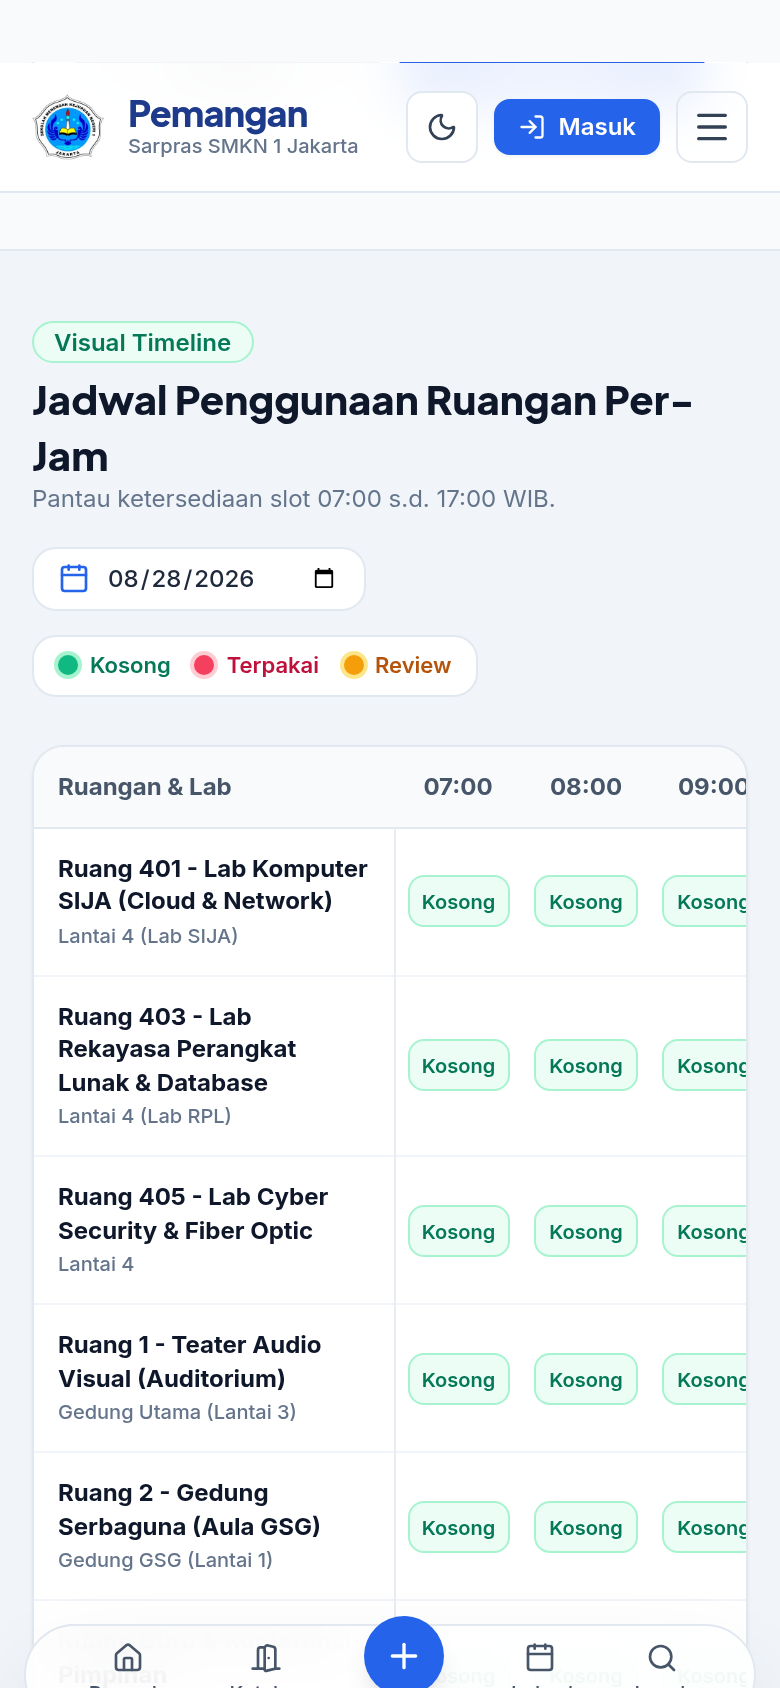
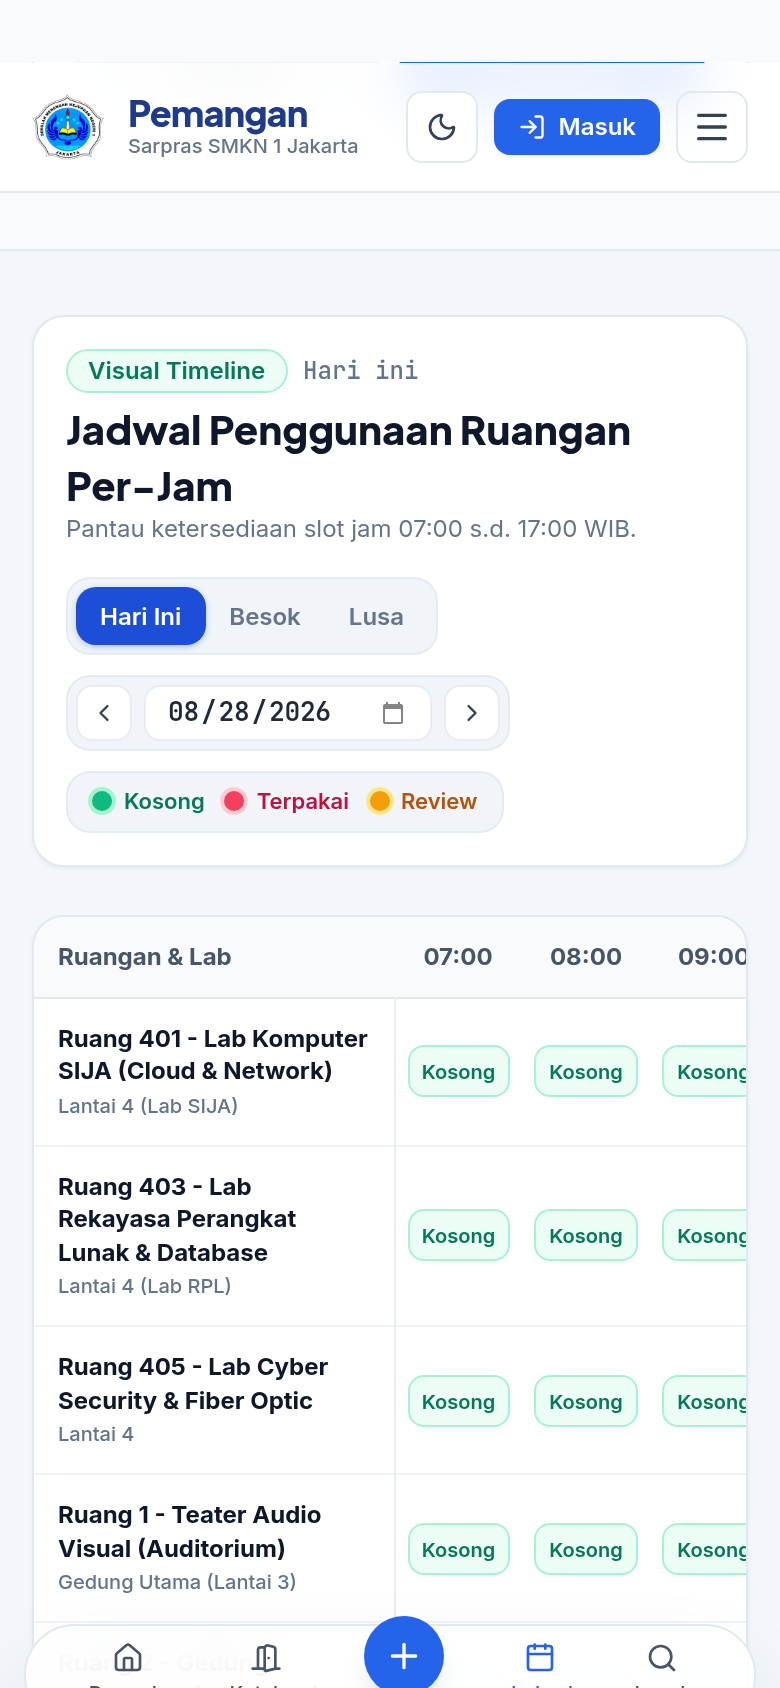
feat(ui-ux): enhance all date filter controls, quick preset chips, day steppers, and admin schedule filters

diff --git a/index.html b/index.html
@@ -339,23 +339,44 @@
             </section>
 
             <!-- Visual Timetable Section (Hourly Matrix) -->
-            <section id="timetable" class="scroll-mt-20 py-8 bg-slate-100 dark:bg-slate-900/50 border-y border-slate-200 dark:border-slate-800">
+            <section id="timetable" class="scroll-mt-20 py-8 bg-slate-100/80 dark:bg-slate-900/50 border-y border-slate-200 dark:border-slate-800">
                 <div class="max-w-7xl mx-auto px-4 sm:px-6 lg:px-8 space-y-6">
-                    <div class="flex flex-col sm:flex-row items-start sm:items-center justify-between gap-4">
+                    
+                    <!-- Timetable Header & Date Navigation Bar -->
+                    <div class="p-4 sm:p-5 rounded-2xl bg-white dark:bg-slate-900 border border-slate-200 dark:border-slate-800 shadow-sm flex flex-col lg:flex-row items-start lg:items-center justify-between gap-4">
                         <div>
-                            <span class="px-2.5 py-0.5 rounded-full text-xs font-semibold bg-emerald-50 dark:bg-emerald-950 text-emerald-700 dark:text-emerald-300 border border-emerald-200 dark:border-emerald-800">Visual Timeline</span>
+                            <div class="flex items-center gap-2">
+                                <span class="px-2.5 py-0.5 rounded-full text-xs font-semibold bg-emerald-50 dark:bg-emerald-950 text-emerald-700 dark:text-emerald-300 border border-emerald-200 dark:border-emerald-800">Visual Timeline</span>
+                                <span id="timetableDateBadge" class="text-xs font-mono font-medium text-slate-500">Hari ini</span>
+                            </div>
                             <h2 class="font-heading font-extrabold text-xl sm:text-2xl text-slate-900 dark:text-white mt-1">Jadwal Penggunaan Ruangan Per-Jam</h2>
-                            <p class="text-xs text-slate-500">Pantau ketersediaan slot 07:00 s.d. 17:00 WIB.</p>
+                            <p class="text-xs text-slate-500">Pantau ketersediaan slot jam 07:00 s.d. 17:00 WIB.</p>
                         </div>
 
-                        <!-- Date Picker & Legend -->
-                        <div class="flex flex-wrap items-center gap-3">
-                            <div class="flex items-center gap-2 bg-white dark:bg-slate-900 px-3 py-1.5 rounded-xl border border-slate-200 dark:border-slate-800 text-xs font-medium">
-                                <i data-lucide="calendar" class="w-4 h-4 text-brand-600"></i>
-                                <input type="date" id="timetableDateInput" class="bg-transparent focus:outline-none text-slate-800 dark:text-slate-200">
+                        <!-- Date Picker Control Cluster -->
+                        <div class="flex flex-wrap items-center gap-2.5 w-full lg:w-auto">
+                            <!-- Quick Presets -->
+                            <div class="flex items-center p-1 rounded-xl bg-slate-100 dark:bg-slate-800 border border-slate-200/80 dark:border-slate-700/80">
+                                <button type="button" class="date-quick-btn active" data-offset="0" id="btnDateToday">Hari Ini</button>
+                                <button type="button" class="date-quick-btn" data-offset="1" id="btnDateTomorrow">Besok</button>
+                                <button type="button" class="date-quick-btn" data-offset="2" id="btnDateNext2">Lusa</button>
                             </div>
 
-                            <div class="flex items-center gap-3 text-[11px] font-semibold bg-white dark:bg-slate-900 px-3 py-1.5 rounded-xl border border-slate-200 dark:border-slate-800">
+                            <!-- Day Stepper & Custom Date Input -->
+                            <div class="flex items-center gap-1.5 p-1 rounded-xl bg-slate-100 dark:bg-slate-800 border border-slate-200/80 dark:border-slate-700/80">
+                                <button type="button" id="btnDatePrevDay" class="w-7 h-7 flex items-center justify-center rounded-lg bg-white dark:bg-slate-900 text-slate-700 dark:text-slate-300 hover:bg-slate-50 dark:hover:bg-slate-800 border border-slate-200/80 dark:border-slate-700 text-xs transition-colors" title="Hari Sebelumnya">
+                                    <i data-lucide="chevron-left" class="w-3.5 h-3.5"></i>
+                                </button>
+                                <div class="relative flex items-center">
+                                    <input type="date" id="timetableDateInput" class="px-2.5 py-1 text-xs font-semibold rounded-lg bg-white dark:bg-slate-900 text-slate-800 dark:text-slate-200 border border-slate-200/80 dark:border-slate-700 focus:outline-none focus:ring-2 focus:ring-brand-500">
+                                </div>
+                                <button type="button" id="btnDateNextDay" class="w-7 h-7 flex items-center justify-center rounded-lg bg-white dark:bg-slate-900 text-slate-700 dark:text-slate-300 hover:bg-slate-50 dark:hover:bg-slate-800 border border-slate-200/80 dark:border-slate-700 text-xs transition-colors" title="Hari Berikutnya">
+                                    <i data-lucide="chevron-right" class="w-3.5 h-3.5"></i>
+                                </button>
+                            </div>
+
+                            <!-- Legend -->
+                            <div class="flex items-center gap-2.5 text-[11px] font-semibold px-3 py-1.5 rounded-xl bg-slate-100 dark:bg-slate-800 border border-slate-200/80 dark:border-slate-700/80">
                                 <span class="flex items-center gap-1.5 text-emerald-700 dark:text-emerald-400"><span class="w-2.5 h-2.5 rounded-full bg-emerald-500 ring-2 ring-emerald-200 dark:ring-emerald-950"></span> Kosong</span>
                                 <span class="flex items-center gap-1.5 text-rose-700 dark:text-rose-400"><span class="w-2.5 h-2.5 rounded-full bg-rose-500 ring-2 ring-rose-200 dark:ring-rose-950"></span> Terpakai</span>
                                 <span class="flex items-center gap-1.5 text-amber-700 dark:text-amber-400"><span class="w-2.5 h-2.5 rounded-full bg-amber-500 ring-2 ring-amber-200 dark:ring-amber-950"></span> Review</span>
@@ -439,9 +460,30 @@
 
                                 <!-- Step 2: Jadwal & Anti-Bentrok -->
                                 <div id="wizardStepPane2" class="wizard-pane space-y-4 hidden">
-                                    <h3 class="font-heading font-bold text-base text-slate-900 dark:text-white flex items-center gap-2">
-                                        <i data-lucide="clock" class="w-4 h-4 text-brand-600"></i> Langkah 2: Tentukan Waktu & Validasi Bentrok
-                                    </h3>
+                                    <div class="flex items-center justify-between">
+                                        <h3 class="font-heading font-bold text-base text-slate-900 dark:text-white flex items-center gap-2">
+                                            <i data-lucide="clock" class="w-4 h-4 text-brand-600"></i> Langkah 2: Tentukan Waktu & Validasi Bentrok
+                                        </h3>
+                                    </div>
+
+                                    <!-- Quick Duration & Date Presets for Wizard -->
+                                    <div class="p-3 rounded-xl bg-slate-50 dark:bg-slate-800/80 border border-slate-200 dark:border-slate-700/80 space-y-2">
+                                        <span class="text-[11px] font-semibold text-slate-600 dark:text-slate-400 block">Pilihan Cepat Waktu Reservasi:</span>
+                                        <div class="flex flex-wrap items-center gap-1.5">
+                                            <button type="button" class="wz-quick-slot px-2.5 py-1 text-xs rounded-lg font-medium bg-white dark:bg-slate-900 border border-slate-200 dark:border-slate-700 text-slate-700 dark:text-slate-300 hover:border-brand-500 transition-colors" data-start="08:00" data-end="10:00">
+                                                08:00 - 10:00 (Pagi)
+                                            </button>
+                                            <button type="button" class="wz-quick-slot px-2.5 py-1 text-xs rounded-lg font-medium bg-white dark:bg-slate-900 border border-slate-200 dark:border-slate-700 text-slate-700 dark:text-slate-300 hover:border-brand-500 transition-colors" data-start="10:30" data-end="12:30">
+                                                10:30 - 12:30 (Siang)
+                                            </button>
+                                            <button type="button" class="wz-quick-slot px-2.5 py-1 text-xs rounded-lg font-medium bg-white dark:bg-slate-900 border border-slate-200 dark:border-slate-700 text-slate-700 dark:text-slate-300 hover:border-brand-500 transition-colors" data-start="13:00" data-end="15:30">
+                                                13:00 - 15:30 (Sore)
+                                            </button>
+                                            <button type="button" class="wz-quick-slot px-2.5 py-1 text-xs rounded-lg font-medium bg-white dark:bg-slate-900 border border-slate-200 dark:border-slate-700 text-slate-700 dark:text-slate-300 hover:border-brand-500 transition-colors" data-start="08:00" data-end="16:00">
+                                                Full Day (08:00 - 16:00)
+                                            </button>
+                                        </div>
+                                    </div>
 
                                     <div class="grid grid-cols-1 sm:grid-cols-2 gap-4">
                                         <div>
@@ -714,11 +756,21 @@
                 <div id="admTabPaneBookings" class="space-y-4">
                     <!-- Filters & Search Toolbar -->
                     <div class="flex flex-col sm:flex-row items-start sm:items-center justify-between gap-3 bg-white dark:bg-slate-900 p-3.5 rounded-2xl border border-slate-200 dark:border-slate-800">
-                        <div class="flex items-center gap-1.5 overflow-x-auto no-scrollbar w-full sm:w-auto">
-                            <button class="adm-filter-pill active px-3 py-1.5 rounded-lg text-xs font-bold bg-slate-900 dark:bg-white text-white dark:text-slate-900" data-filter="all">Semua</button>
-                            <button class="adm-filter-pill px-3 py-1.5 rounded-lg text-xs font-medium text-amber-600 bg-amber-50 dark:bg-amber-950/60 border border-amber-200 dark:border-amber-800" data-filter="pending">Perlu Review</button>
-                            <button class="adm-filter-pill px-3 py-1.5 rounded-lg text-xs font-medium text-emerald-600 bg-emerald-50 dark:bg-emerald-950/60 border border-emerald-200 dark:border-emerald-800" data-filter="approved">Disetujui</button>
-                            <button class="adm-filter-pill px-3 py-1.5 rounded-lg text-xs font-medium text-rose-600 bg-rose-50 dark:bg-rose-950/60 border border-rose-200 dark:border-rose-800" data-filter="rejected">Ditolak</button>
+                        <div class="flex flex-wrap items-center gap-1.5 w-full sm:w-auto">
+                            <!-- Status filter pills -->
+                            <div class="flex items-center gap-1 bg-slate-100 dark:bg-slate-800 p-1 rounded-xl border border-slate-200/80 dark:border-slate-700/80">
+                                <button class="adm-filter-pill active px-3 py-1.5 rounded-lg text-xs font-bold bg-slate-900 dark:bg-white text-white dark:text-slate-900" data-filter="all">Semua</button>
+                                <button class="adm-filter-pill px-3 py-1.5 rounded-lg text-xs font-medium text-amber-700 dark:text-amber-300 hover:bg-amber-50 dark:hover:bg-amber-950/40" data-filter="pending">Perlu Review</button>
+                                <button class="adm-filter-pill px-3 py-1.5 rounded-lg text-xs font-medium text-emerald-700 dark:text-emerald-300 hover:bg-emerald-50 dark:hover:bg-emerald-950/40" data-filter="approved">Disetujui</button>
+                                <button class="adm-filter-pill px-3 py-1.5 rounded-lg text-xs font-medium text-rose-700 dark:text-rose-300 hover:bg-rose-50 dark:hover:bg-rose-950/40" data-filter="rejected">Ditolak</button>
+                            </div>
+
+                            <!-- Date Filter for Admin -->
+                            <div class="flex items-center gap-1.5 bg-slate-100 dark:bg-slate-800 p-1 rounded-xl border border-slate-200/80 dark:border-slate-700/80">
+                                <i data-lucide="calendar" class="w-3.5 h-3.5 text-slate-500 ml-1"></i>
+                                <input type="date" id="admDateFilter" class="px-2 py-1 text-xs font-semibold rounded-lg bg-white dark:bg-slate-900 text-slate-800 dark:text-slate-200 border border-slate-200/80 dark:border-slate-700 focus:outline-none" title="Filter Berdasarkan Tanggal Pelaksanaan">
+                                <button type="button" id="btnAdmClearDateFilter" class="px-2 py-1 text-[11px] font-semibold text-slate-500 hover:text-slate-800 dark:hover:text-slate-200" title="Reset Filter Tanggal">Reset</button>
+                            </div>
                         </div>
 
                         <div class="relative w-full sm:w-64">

diff --git a/js/app.js b/js/app.js
@@ -354,19 +354,100 @@ document.addEventListener('DOMContentLoaded', () => {
         renderRoomCatalog();
     });
 
-    // 8. Visual Timetable Matrix
+    // 8. Visual Timetable Matrix with Enhanced Date Controls
     const timetableDateInput = document.getElementById('timetableDateInput');
+    const timetableDateBadge = document.getElementById('timetableDateBadge');
     const timetableTable = document.getElementById('timetableTable');
-    const todayISO = new Date().toISOString().slice(0, 10);
+    const btnDateToday = document.getElementById('btnDateToday');
+    const btnDateTomorrow = document.getElementById('btnDateTomorrow');
+    const btnDateNext2 = document.getElementById('btnDateNext2');
+    const btnDatePrevDay = document.getElementById('btnDatePrevDay');
+    const btnDateNextDay = document.getElementById('btnDateNextDay');
+
+    function getTodayKey() {
+        return new Date().toISOString().slice(0, 10);
+    }
+
+    function formatDateKey(dateObj) {
+        const y = dateObj.getFullYear();
+        const m = String(dateObj.getMonth() + 1).padStart(2, '0');
+        const d = String(dateObj.getDate()).padStart(2, '0');
+        return `${y}-${m}-${d}`;
+    }
+
+    function setTimetableDate(dateStr) {
+        if (!timetableDateInput) return;
+        timetableDateInput.value = dateStr;
+
+        // Update badge description
+        const todayStr = getTodayKey();
+        const curDate = new Date(dateStr);
+        const todayDate = new Date(todayStr);
+        const diffDays = Math.round((curDate - todayDate) / (1000 * 60 * 60 * 24));
+
+        if (timetableDateBadge) {
+            const formattedLong = curDate.toLocaleDateString('id-ID', { weekday: 'long', day: 'numeric', month: 'short', year: 'numeric' });
+            if (diffDays === 0) {
+                timetableDateBadge.textContent = `Hari Ini (${formattedLong})`;
+            } else if (diffDays === 1) {
+                timetableDateBadge.textContent = `Besok (${formattedLong})`;
+            } else if (diffDays === 2) {
+                timetableDateBadge.textContent = `Lusa (${formattedLong})`;
+            } else {
+                timetableDateBadge.textContent = formattedLong;
+            }
+        }
+
+        // Update Quick Preset buttons active state
+        document.querySelectorAll('.date-quick-btn').forEach(btn => {
+            const offset = parseInt(btn.dataset.offset, 10);
+            const target = new Date();
+            target.setDate(target.getDate() + offset);
+            if (formatDateKey(target) === dateStr) {
+                btn.classList.add('active');
+            } else {
+                btn.classList.remove('active');
+            }
+        });
+
+        renderTimetable();
+    }
 
     if (timetableDateInput) {
-        timetableDateInput.value = todayISO;
-        timetableDateInput.addEventListener('change', renderTimetable);
+        timetableDateInput.value = getTodayKey();
+        timetableDateInput.addEventListener('change', (e) => setTimetableDate(e.target.value));
+    }
+
+    // Quick presets
+    document.querySelectorAll('.date-quick-btn').forEach(btn => {
+        btn.addEventListener('click', () => {
+            const offset = parseInt(btn.dataset.offset, 10);
+            const d = new Date();
+            d.setDate(d.getDate() + offset);
+            setTimetableDate(formatDateKey(d));
+        });
+    });
+
+    // Prev / Next day step buttons
+    if (btnDatePrevDay && timetableDateInput) {
+        btnDatePrevDay.addEventListener('click', () => {
+            const cur = new Date(timetableDateInput.value || getTodayKey());
+            cur.setDate(cur.getDate() - 1);
+            setTimetableDate(formatDateKey(cur));
+        });
+    }
+
+    if (btnDateNextDay && timetableDateInput) {
+        btnDateNextDay.addEventListener('click', () => {
+            const cur = new Date(timetableDateInput.value || getTodayKey());
+            cur.setDate(cur.getDate() + 1);
+            setTimetableDate(formatDateKey(cur));
+        });
     }
 
     function renderTimetable() {
         if (!timetableTable) return;
-        const selectedDate = timetableDateInput ? timetableDateInput.value : todayISO;
+        const selectedDate = timetableDateInput ? timetableDateInput.value : getTodayKey();
         const matrix = window.Store.getHourlyMatrix(selectedDate);
         const hours = [7, 8, 9, 10, 11, 12, 13, 14, 15, 16, 17];
 
@@ -465,6 +546,33 @@ document.addEventListener('DOMContentLoaded', () => {
 
         if (window.lucide) window.lucide.createIcons();
     }
+
+    // Wizard Step 2 Quick Slot Presets
+    document.querySelectorAll('.wz-quick-slot').forEach(btn => {
+        btn.addEventListener('click', () => {
+            document.querySelectorAll('.wz-quick-slot').forEach(b => {
+                b.className = 'wz-quick-slot px-2.5 py-1 text-xs rounded-lg font-medium bg-white dark:bg-slate-900 border border-slate-200 dark:border-slate-700 text-slate-700 dark:text-slate-300 hover:border-brand-500 transition-colors';
+            });
+            btn.className = 'wz-quick-slot active px-2.5 py-1 text-xs rounded-lg font-bold bg-brand-600 text-white border border-brand-600 shadow-sm transition-colors';
+
+            const startHour = btn.dataset.start;
+            const endHour = btn.dataset.end;
+
+            // Pick date from existing input or tomorrow
+            let baseDate = getTodayKey();
+            if (wzStartTime && wzStartTime.value) {
+                baseDate = wzStartTime.value.slice(0, 10);
+            } else {
+                const tmr = new Date();
+                tmr.setDate(tmr.getDate() + 1);
+                baseDate = formatDateKey(tmr);
+            }
+
+            if (wzStartTime) wzStartTime.value = `${baseDate}T${startHour}`;
+            if (wzEndTime) wzEndTime.value = `${baseDate}T${endHour}`;
+            checkLiveConflict();
+        });
+    });
 
     // Step 1 -> 2
     document.getElementById('btnWzNext1')?.addEventListener('click', () => {

diff --git a/css/app.css b/css/app.css
@@ -91,6 +91,69 @@
     z-index: 20;
 }
 
+/* Institutional Date Controller & Segmented Presets */
+.date-quick-btn {
+    padding: 0.35rem 0.75rem;
+    font-size: 0.75rem;
+    font-weight: 600;
+    border-radius: 0.625rem;
+    transition: all 0.15s cubic-bezier(0.4, 0, 0.2, 1);
+    white-space: nowrap;
+}
+
+.date-quick-btn.active {
+    background-color: #1d4ed8;
+    color: #ffffff;
+    box-shadow: 0 1px 3px rgba(29, 78, 216, 0.3);
+}
+
+.date-quick-btn:not(.active) {
+    color: #64748b;
+    background-color: transparent;
+}
+
+.dark .date-quick-btn:not(.active) {
+    color: #94a3b8;
+}
+
+.date-quick-btn:not(.active):hover {
+    color: #0f172a;
+    background-color: rgba(241, 245, 249, 0.8);
+}
+
+.dark .date-quick-btn:not(.active):hover {
+    color: #f8fafc;
+    background-color: rgba(30, 41, 59, 0.6);
+}
+
+/* Modern Native Date Input Styling */
+input[type="date"],
+input[type="datetime-local"] {
+    position: relative;
+    font-family: 'JetBrains Mono', 'Inter', monospace;
+    font-size: 0.82rem;
+    letter-spacing: -0.01em;
+}
+
+input[type="date"]::-webkit-calendar-picker-indicator,
+input[type="datetime-local"]::-webkit-calendar-picker-indicator {
+    cursor: pointer;
+    border-radius: 4px;
+    opacity: 0.6;
+    transition: opacity 0.15s;
+    filter: invert(0.2);
+}
+
+.dark input[type="date"]::-webkit-calendar-picker-indicator,
+.dark input[type="datetime-local"]::-webkit-calendar-picker-indicator {
+    filter: invert(0.85);
+}
+
+input[type="date"]::-webkit-calendar-picker-indicator:hover,
+input[type="datetime-local"]::-webkit-calendar-picker-indicator:hover {
+    opacity: 1;
+}
+
 /* Print Styles for Official Surat Izin (A4 Kedinasan) */
 @media print {
     body * {

diff --git a/js/admin.js b/js/admin.js
@@ -7,6 +7,7 @@ class SarprasAdminController {
     constructor() {
         this.filterStatus = 'all';
         this.searchQuery = '';
+        this.filterDate = '';
         this.activeTab = 'bookings';
         this.init();
     }
@@ -50,6 +51,25 @@ class SarprasAdminController {
                 this.renderBookingsTable();
             });
         });
+
+        // Date Filter for Admin
+        const admDateFilter = document.getElementById('admDateFilter');
+        const btnAdmClearDateFilter = document.getElementById('btnAdmClearDateFilter');
+
+        if (admDateFilter) {
+            admDateFilter.addEventListener('change', (e) => {
+                this.filterDate = e.target.value;
+                this.renderBookingsTable();
+            });
+        }
+
+        if (btnAdmClearDateFilter && admDateFilter) {
+            btnAdmClearDateFilter.addEventListener('click', () => {
+                admDateFilter.value = '';
+                this.filterDate = '';
+                this.renderBookingsTable();
+            });
+        }
 
         // Search Input
         document.getElementById('admSearchInput')?.addEventListener('input', (e) => {
@@ -120,6 +140,10 @@ class SarprasAdminController {
 
         if (this.filterStatus !== 'all') {
             list = list.filter(b => b.status === this.filterStatus);
+        }
+
+        if (this.filterDate) {
+            list = list.filter(b => b.startDateTime.slice(0, 10) === this.filterDate);
         }
 
         if (this.searchQuery) {
